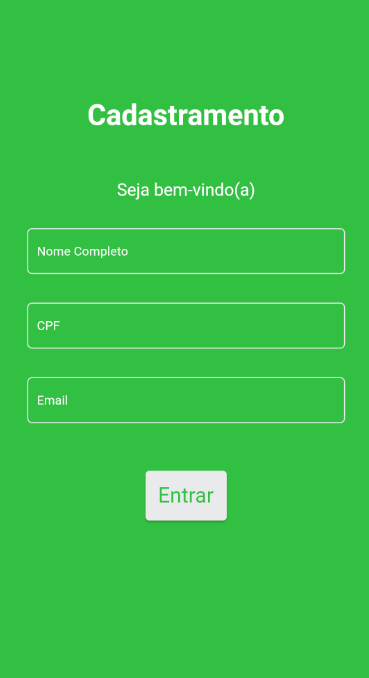
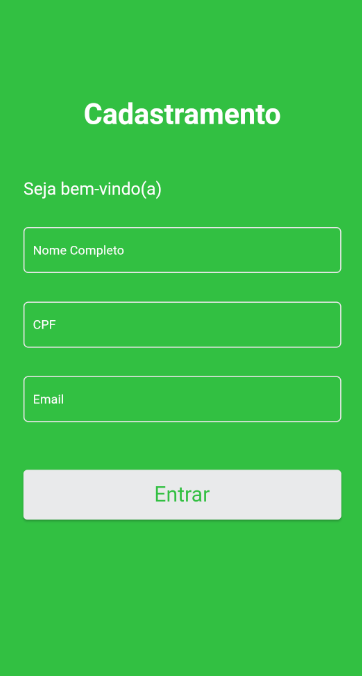
adding remove user and fixing items hive

diff --git a/lib/app/modules/register/pages/register_page.dart b/lib/app/modules/register/pages/register_page.dart
@@ -31,19 +31,19 @@ class _RegisterPageState extends State<RegisterPage> {
       backgroundColor: Theme.of(context).colorScheme.secondary,
       body: LayoutBuilder(
         builder: (context, constraints) {
-          return Container(
-            height: constraints.maxHeight,
-            width: constraints.maxWidth,
-            padding: const EdgeInsets.symmetric(horizontal: 30),
-            child: Form(
-              key: _formKey,
-              child: Column(
-                mainAxisAlignment: MainAxisAlignment.center,
-                crossAxisAlignment: CrossAxisAlignment.center,
+          return Form(
+            key: _formKey,
+            child: Center(
+              child: ListView(
+                shrinkWrap: true,
+                padding: const EdgeInsets.symmetric(horizontal: 30),
                 children: [
-                  Text(
-                    'Cadastramento',
-                    style: Theme.of(context).textTheme.titleLarge,
+                  Center(
+                    child: Text(
+                      'Cadastramento',
+                      style: Theme.of(context).textTheme.titleLarge,
+                      textAlign: TextAlign.center,
+                    ),
                   ),
                   const SizedBox(height: 50),
                   Text(
@@ -55,6 +55,7 @@ class _RegisterPageState extends State<RegisterPage> {
                     controller: nameTextController,
                     isSearch: false,
                     label: 'Nome Completo',
+                    textCapitalization: TextCapitalization.words,
                     validator: (value) {
                       if (value!.isEmpty) {
                         return "Digite seu Nome Completo!";
@@ -104,11 +105,12 @@ class _RegisterPageState extends State<RegisterPage> {
                       onPressed: () {
                         if (_formKey.currentState!.validate()) {
                           Navigator.pushReplacementNamed(context, '/home');
+                          register.createUser(
+                            fullName: nameTextController.text,
+                            email: emailTextController.text,
+                          );
+                          register.singleRegister();
                         }
-                        register.createUser(
-                          fullName: nameTextController.text,
-                          email: emailTextController.text,
-                        );
                       },
                       style: ButtonStyle(
                         backgroundColor: MaterialStateProperty.all<Color>(

diff --git a/lib/app/modules/home/components/drawer_component.dart b/lib/app/modules/home/components/drawer_component.dart
@@ -3,6 +3,7 @@ import 'package:provider/provider.dart';
 
 import '../../../controllers/register_controller.dart';
 import '../widgets/exit_widget.dart';
+import '../widgets/remove_user_widget.dart';
 
 class DrawerComponent extends StatelessWidget {
   const DrawerComponent({super.key});
@@ -18,11 +19,11 @@ class DrawerComponent extends StatelessWidget {
               crossAxisAlignment: CrossAxisAlignment.start,
               children: [
                 Text(
-                  register.userList[0].name,
+                  register.userModel.name,
                   style: Theme.of(context).textTheme.displayMedium,
                 ),
                 Text(
-                  register.userList[0].email,
+                  register.userModel.email,
                   style: Theme.of(context).textTheme.displaySmall,
                 ),
                 const SizedBox(height: 20),
@@ -31,15 +32,25 @@ class DrawerComponent extends StatelessWidget {
                   contentPadding: const EdgeInsets.only(left: 0),
                   visualDensity: const VisualDensity(horizontal: -4),
                   leading: Icon(
-                    Icons.info_outline,
+                    Icons.delete_forever_rounded,
                     size: 32,
                     color: Theme.of(context).colorScheme.tertiary,
                   ),
                   title: Text(
-                    'Sobre',
+                    'Remover usuário',
                     style: Theme.of(context).textTheme.labelSmall,
                   ),
-                  onTap: () {},
+                  onTap: () {
+                    showDialog(
+                      context: context,
+                      builder: (context) => RemoveUserWidget(
+                        onPressedRemoveUser: () {
+                          register.removeUser();
+                          Navigator.pushReplacementNamed(context, '/register');
+                        },
+                      ),
+                    );
+                  },
                 ),
                 const Spacer(),
                 const Divider(),

diff --git a/lib/app/controllers/register_controller.dart b/lib/app/controllers/register_controller.dart
@@ -5,55 +5,49 @@ import '../data/models/user_model.dart';
 
 class RegisterController extends ChangeNotifier {
   int clickSingleRegister = 0;
-  List<UserModel> userList = <UserModel>[];
+  UserModel userModel = UserModel(name: '', email: '');
 
   late Box boxSingleRegister;
   late Box boxUser;
 
   get openBoxRegister => _openBoxRegister;
 
-  _openBoxRegister() async {
-    boxSingleRegister = await Hive.openBox<int>('single');
-    boxUser = await Hive.openBox<UserModel>('user');
-
-    await _singleRegister();
-    await _readyUser();
-  }
-
   createUser({required String? fullName, required String? email}) async {
     var name = fullName!.split(' ');
 
     var firstName = name[0];
 
-    userList.add(
-      UserModel(
-        name: firstName,
-        email: email!,
-      ),
+    userModel = UserModel(
+      name: firstName,
+      email: email!,
     );
 
-    boxUser.put(
-      'singleUser',
-      UserModel(
-        name: userList[0].name,
-        email: userList[0].email,
-      ),
-    );
-
-    notifyListeners();
+    await boxUser.put('singleUser', userModel);
   }
 
-  _singleRegister() async {
-    clickSingleRegister = boxSingleRegister.get('single') ?? 0;
+  removeUser() {
+    boxSingleRegister.delete('single');
+    boxUser.delete('singleUser');
+  }
+
+  singleRegister() async {
     await boxSingleRegister.put('single', 1);
   }
 
-  _readyUser() async {
-    for (var user in boxUser.keys) {
-      UserModel userModel = await boxUser.get(user);
-      userList.add(userModel);
+  _readySingleRegister() async {
+    clickSingleRegister = await boxSingleRegister.get('single') ?? 0;
+  }
 
-      notifyListeners();
-    }
+  _readyUser() async {
+    userModel =
+        await boxUser.get('singleUser') ?? UserModel(name: '', email: '');
+  }
+
+  _openBoxRegister() async {
+    boxSingleRegister = await Hive.openBox<int>('single');
+    boxUser = await Hive.openBox<UserModel>('user');
+
+    await _readySingleRegister();
+    await _readyUser();
   }
 }

diff --git a/lib/app/modules/home/widgets/remove_user_widget.dart b/lib/app/modules/home/widgets/remove_user_widget.dart
@@ -1,0 +1,56 @@
+import 'package:flutter/material.dart';
+
+class RemoveUserWidget extends StatelessWidget {
+  final void Function()? onPressedRemoveUser;
+
+  const RemoveUserWidget({
+    super.key,
+    required this.onPressedRemoveUser,
+  });
+
+  @override
+  Widget build(BuildContext context) {
+    return NotificationListener<OverscrollIndicatorNotification>(
+      onNotification: (OverscrollIndicatorNotification overscroll) {
+        overscroll.disallowIndicator();
+        return true;
+      },
+      child: AlertDialog(
+        scrollable: true,
+        title: Text(
+          'Deseja realmente remover seu usuário?',
+          textAlign: TextAlign.center,
+          style: Theme.of(context).textTheme.displayMedium,
+        ),
+        actionsAlignment: MainAxisAlignment.center,
+        actions: [
+          ElevatedButton(
+            onPressed: () {
+              Navigator.pop(context);
+            },
+            style: ButtonStyle(
+              backgroundColor: MaterialStateProperty.all<Color>(
+                Theme.of(context).colorScheme.secondary,
+              ),
+            ),
+            child: Text(
+              'Não',
+              style: Theme.of(context).textTheme.headlineSmall,
+            ),
+          ),
+          TextButton(
+            onPressed: onPressedRemoveUser,
+            child: Text(
+              'Sim',
+              style: Theme.of(context).textTheme.headlineSmall?.merge(
+                    TextStyle(
+                      color: Theme.of(context).colorScheme.tertiary,
+                    ),
+                  ),
+            ),
+          )
+        ],
+      ),
+    );
+  }
+}

diff --git a/lib/app/core/ui/ui_texformfield.dart b/lib/app/core/ui/ui_texformfield.dart
@@ -8,6 +8,7 @@ class UiTextFormField extends StatelessWidget {
   final TextInputType? keyboardType;
   final String? Function(String?)? validator;
   final List<TextInputFormatter>? inputFormatters;
+  final TextCapitalization? textCapitalization;
   final bool isSearch;
 
   const UiTextFormField({
@@ -18,6 +19,7 @@ class UiTextFormField extends StatelessWidget {
     this.keyboardType,
     this.validator,
     this.inputFormatters,
+    this.textCapitalization,
     this.isSearch = true,
   }) : super(key: key);
 
@@ -27,6 +29,7 @@ class UiTextFormField extends StatelessWidget {
       onChanged: onChanged,
       controller: controller,
       keyboardType: keyboardType ?? TextInputType.name,
+      textCapitalization: textCapitalization ?? TextCapitalization.none,
       inputFormatters: inputFormatters,
       validator: validator,
       cursorColor: Theme.of(context).colorScheme.primary,

diff --git a/lib/app/modules/home/components/body_component.dart b/lib/app/modules/home/components/body_component.dart
@@ -31,7 +31,7 @@ class BodyComponent extends StatelessWidget {
             children: [
               Consumer<RegisterController>(builder: (_, register, __) {
                 return Text(
-                  'Olá, ${register.userList[0].name}',
+                  'Olá, ${register.userModel.name}',
                   style: Theme.of(context).textTheme.bodyMedium,
                 );
               }),
